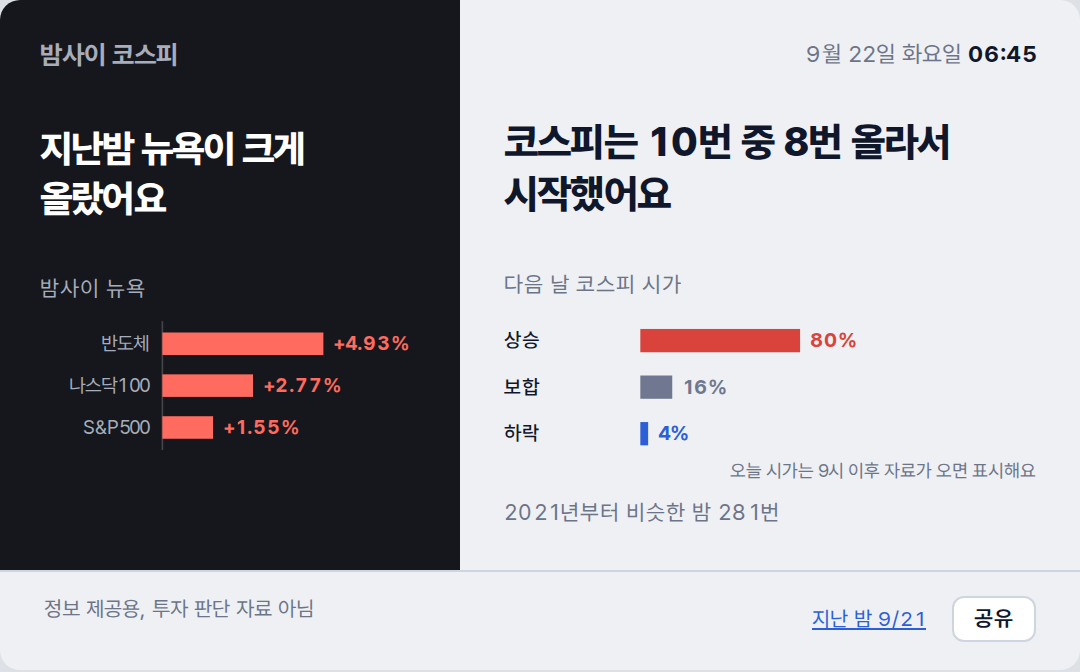
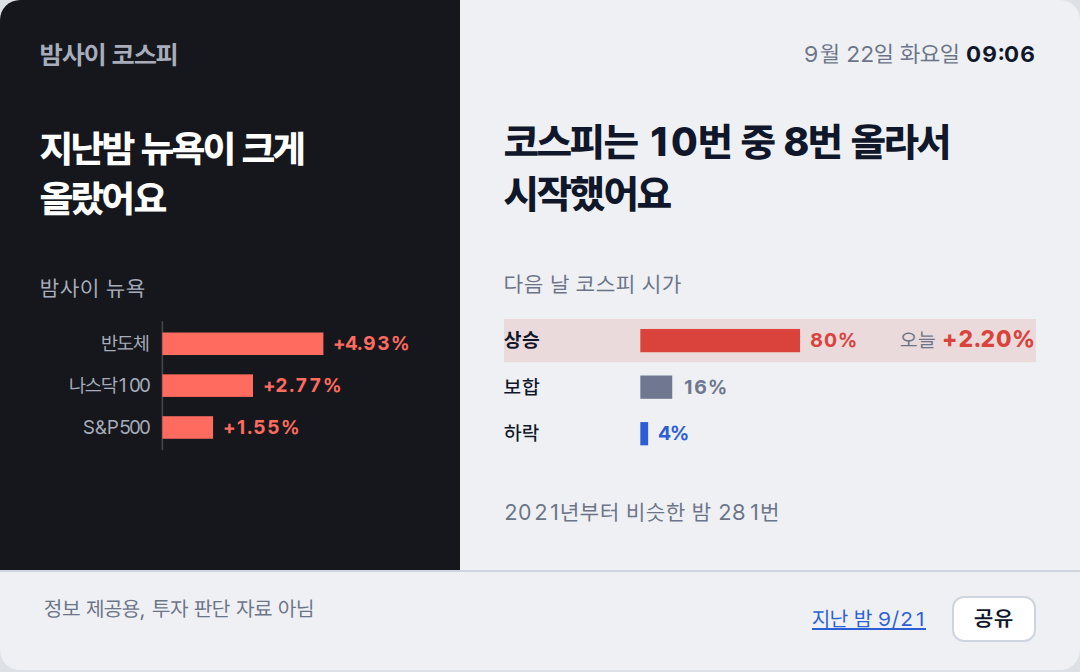
deploy: 1a85871bb5a90ac8edce7000b696d14ea3848dc2

diff --git a/2026-09-22/index.html b/2026-09-22/index.html
@@ -38,17 +38,18 @@ footer a{color:#2C5FD6}
 <rect x="76" y="61" width="31.5" height="14" fill="var(--up)"/>
 <text x="113.5" y="72" fill="var(--up)" font-weight="700">+1.55%</text>
 </svg></section>
-<section class="day"><p class="stamp">9월 22일 화요일 <b>06:45</b></p><p class="claim">코스피는 10번 중 8번 올라서 시작했어요</p><p class="lab">다음 날 코스피 시가</p><svg viewBox="0 0 320 100" xmlns="http://www.w3.org/2000/svg" font-family="var(--sans)" font-size="12">
-<text x="0" y="20" fill="var(--ink)" font-weight="500">상승</text>
+<section class="day"><p class="stamp">9월 22일 화요일 <b>09:06</b></p><p class="claim">코스피는 10번 중 8번 올라서 시작했어요</p><p class="lab">다음 날 코스피 시가</p><svg viewBox="0 0 320 100" xmlns="http://www.w3.org/2000/svg" font-family="var(--sans)" font-size="12">
+<rect x="0" y="3" width="320" height="26" fill="var(--up)" opacity=".12"/>
+<text x="0" y="20" fill="var(--ink)" font-weight="700">상승</text>
 <rect x="82" y="9" width="96.1" height="14" fill="var(--up)"/>
 <text x="184.1" y="20" fill="var(--up)" font-weight="700">80%</text>
+<text x="320" y="20" text-anchor="end" fill="var(--ink)"><tspan fill="var(--muted)">오늘 </tspan><tspan font-weight="800" font-size="14" fill="var(--up)">+2.20%</tspan></text>
 <text x="0" y="48" fill="var(--ink)" font-weight="500">보합</text>
 <rect x="82" y="37" width="19.2" height="14" fill="var(--flat)"/>
 <text x="107.2" y="48" fill="var(--flat)" font-weight="700">16%</text>
 <text x="0" y="76" fill="var(--ink)" font-weight="500">하락</text>
 <rect x="82" y="65" width="4.7" height="14" fill="var(--down)"/>
 <text x="92.7" y="76" fill="var(--down)" font-weight="700">4%</text>
-<text x="320" y="98" text-anchor="end" fill="var(--muted)" font-size="11">오늘 시가는 9시 이후 자료가 오면 표시해요</text>
 </svg><p class="cap">2021년부터 비슷한 밤 281번</p></section>
 <footer><span>정보 제공용, 투자 판단 자료 아님</span><span style="white-space:nowrap"><a href="../2026-09-21/">지난 밤 9/21</a> <button class="share" type="button">공유</button></span></footer>
 <script>

diff --git a/index.html b/index.html
@@ -38,17 +38,18 @@ footer a{color:#2C5FD6}
 <rect x="76" y="61" width="31.5" height="14" fill="var(--up)"/>
 <text x="113.5" y="72" fill="var(--up)" font-weight="700">+1.55%</text>
 </svg></section>
-<section class="day"><p class="stamp">9월 22일 화요일 <b>06:45</b></p><p class="claim">코스피는 10번 중 8번 올라서 시작했어요</p><p class="lab">다음 날 코스피 시가</p><svg viewBox="0 0 320 100" xmlns="http://www.w3.org/2000/svg" font-family="var(--sans)" font-size="12">
-<text x="0" y="20" fill="var(--ink)" font-weight="500">상승</text>
+<section class="day"><p class="stamp">9월 22일 화요일 <b>09:06</b></p><p class="claim">코스피는 10번 중 8번 올라서 시작했어요</p><p class="lab">다음 날 코스피 시가</p><svg viewBox="0 0 320 100" xmlns="http://www.w3.org/2000/svg" font-family="var(--sans)" font-size="12">
+<rect x="0" y="3" width="320" height="26" fill="var(--up)" opacity=".12"/>
+<text x="0" y="20" fill="var(--ink)" font-weight="700">상승</text>
 <rect x="82" y="9" width="96.1" height="14" fill="var(--up)"/>
 <text x="184.1" y="20" fill="var(--up)" font-weight="700">80%</text>
+<text x="320" y="20" text-anchor="end" fill="var(--ink)"><tspan fill="var(--muted)">오늘 </tspan><tspan font-weight="800" font-size="14" fill="var(--up)">+2.20%</tspan></text>
 <text x="0" y="48" fill="var(--ink)" font-weight="500">보합</text>
 <rect x="82" y="37" width="19.2" height="14" fill="var(--flat)"/>
 <text x="107.2" y="48" fill="var(--flat)" font-weight="700">16%</text>
 <text x="0" y="76" fill="var(--ink)" font-weight="500">하락</text>
 <rect x="82" y="65" width="4.7" height="14" fill="var(--down)"/>
 <text x="92.7" y="76" fill="var(--down)" font-weight="700">4%</text>
-<text x="320" y="98" text-anchor="end" fill="var(--muted)" font-size="11">오늘 시가는 9시 이후 자료가 오면 표시해요</text>
 </svg><p class="cap">2021년부터 비슷한 밤 281번</p></section>
 <footer><span>정보 제공용, 투자 판단 자료 아님</span><span style="white-space:nowrap"><a href="./2026-09-21/">지난 밤 9/21</a> <button class="share" type="button">공유</button></span></footer>
 <script>
